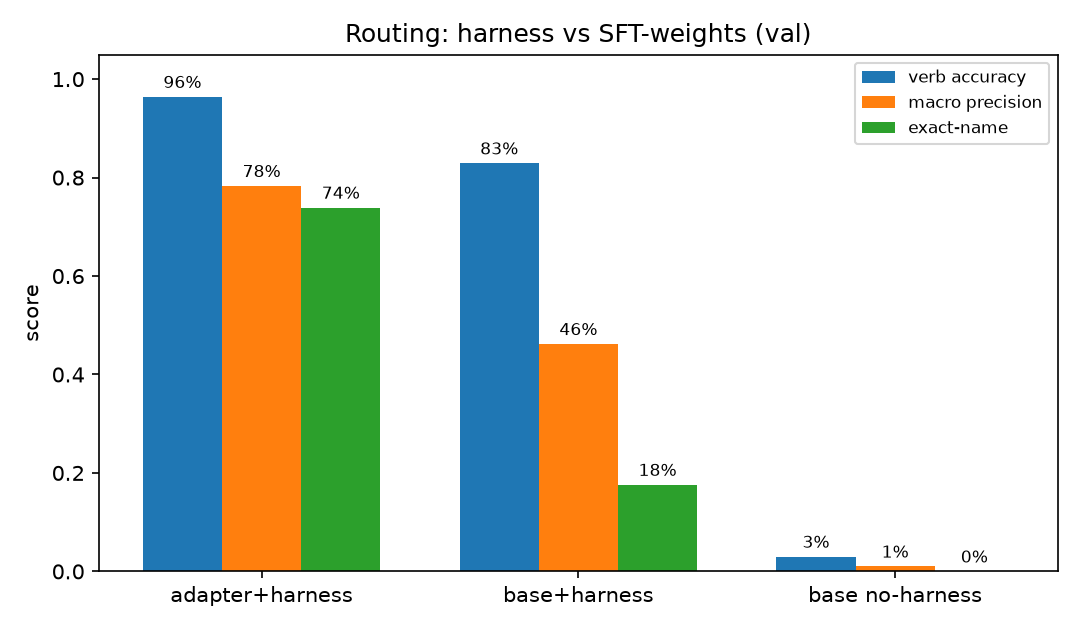
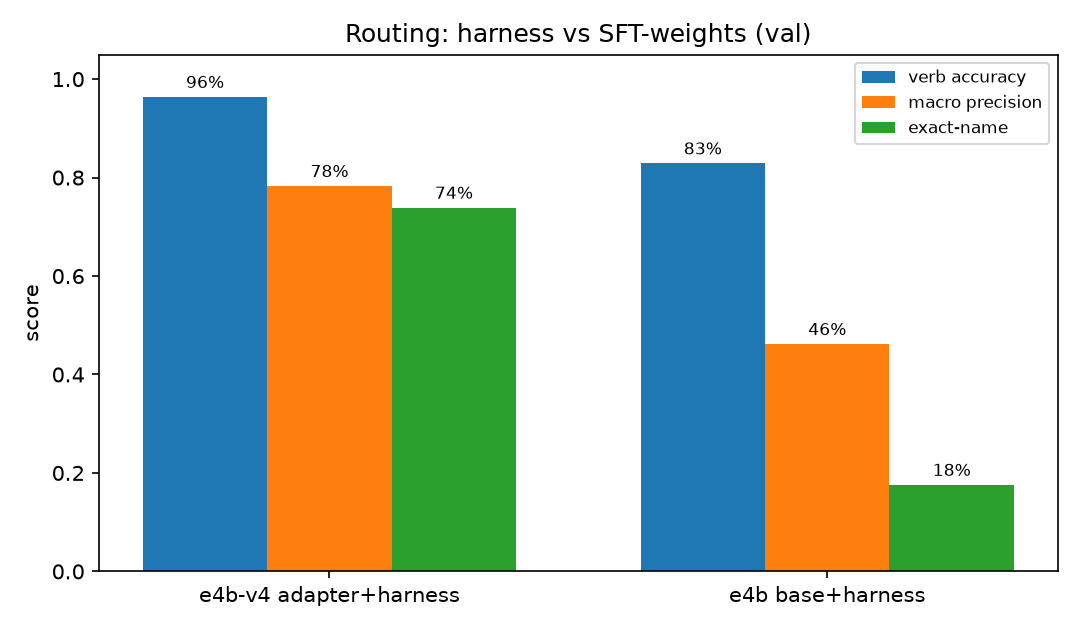
feat(eval): swap base-no-harness for the prior E2B production model in the benchmark
Per request: drop the base-no-harness condition; add the prior E2B-build trained adapter
as the 3rd condition. New conditions, all with the harness contract:
  1. e4b-v4 adapter+harness  (product)
  2. e4b base+harness          (SFT-weights contribution, same base via LoRA toggle)
  3. e2b adapter+harness        (PRIOR production model -- E2B base + its own LoRA; optional)

The E2B condition has a different base, so it can't use the AdapterView toggle -- it loads
separately AFTER the E4B model is freed (sequential -> no single-T4 OOM). Deltas are now
generic vs the product: 1-vs-2 isolates SFT weights, 1-vs-3 is the E2B->E4B model jump.

The e2b adapter is local (runs/gemma4_e2b_unified/best, 5.4MB, attn-only r=8 on E2B) and
gitignored, so the notebook gets it to Kaggle via a Dataset upload OR an HF push (both wired,
skip-if-absent -> the 2-condition E4B benchmark still runs). E2B base auto-downloaded.

Split eval_benchmark (was 209 lines, over the 200 cap) -> eval_benchmark.py (121, runs the
conditions) + bench_report.py (98, renders the report). chart_data drops base-no-harness;
layer-contribution chart regenerated. Training suite: 30 passed; offline 3-condition report
smoke verified.

Claude-Session: https://claude.ai/code/session_01NN8JQHNZsjeNscUsr2THrS

diff --git a/src/llm/llm_training/eval_benchmark.py b/src/llm/llm_training/eval_benchmark.py
@@ -1,14 +1,16 @@
 """Serious routing BENCHMARK for the report — a clean ablation over the validation set:
-  A) adapter + harness  — the product (trained v4 LoRA on the full harness contract)
-  B) base + harness      — SAME harness, LoRA DISABLED (isolates what the SFT WEIGHTS bought)
-  C) base, NO harness    — raw base Gemma, no contract at all (isolates what the HARNESS bought)
-For each we report a confusion matrix + precision/recall/F1 + exact-name + format validity +
-throughput; then the layer deltas (A-B = SFT weights, B-C = harness contract, A-C = full system).
-B and C reuse the SAME loaded model with the LoRA off (AdapterView) — no 2nd load, no OOM, no
-fabricated external baselines. Honest, reproducible from our own artifacts.
+  1) e4b-v4 adapter + harness — the product (trained v4 LoRA on the full harness contract)
+  2) e4b base + harness       — SAME E4B model, LoRA DISABLED (isolates what the SFT WEIGHTS bought)
+  3) e2b adapter + harness     — the PRIOR production model (E2B base + its LoRA), optional
+For each: confusion matrix + precision/recall/F1 + exact-name + format validity + throughput; then
+deltas vs the product (1-vs-2 = SFT weights on the same base; 1-vs-3 = E4B product vs prior E2B
+production). Cond 2 reuses the loaded E4B model with the LoRA off (AdapterView — no 2nd load). Cond
+3 has a DIFFERENT base, so it loads separately AFTER freeing the E4B model (sequential — no OOM).
+No fabricated external baselines; reproducible from our own artifacts.
 
-Built for Kaggle (T4, up to 12h):
-  python -m llm_training.eval_benchmark --adapter <best> --per-slice 25 --time-budget 9000
+Kaggle (T4, up to 12h):
+  python -m llm_training.eval_benchmark --adapter <e4b_best> --per-slice 25 --time-budget 9000 \
+      [--e2b-adapter <e2b_best_dir> --e2b-base <e2b_base_dir>]
 --per-slice 0 = the FULL val set. Saves docs/findings/<date>-routing-benchmark.md + a PNG/condition.
 """
 from __future__ import annotations
@@ -21,9 +23,9 @@ from collections import defaultdict
 from pathlib import Path
 
 sys.path.insert(0, str(Path(__file__).resolve().parents[1]))
-from llm_training import bench_misses  # noqa: E402
+from llm_training import bench_misses, bench_report  # noqa: E402
 from llm_training.eval_confusion import (  # noqa: E402  — reuse the routing primitives
-    CLASSES, VAL, _load_model, _metrics, _png, _sample, _system, first_action, gold_action)
+    CLASSES, VAL, _load_model, _sample, _system, first_action, gold_action)
 
 REPO = Path(__file__).resolve().parents[3]
 _TAG = re.compile(r"</?([a-zA-Z_][\w]*)")
@@ -31,9 +33,8 @@ _CONTRACT = {"think", "/think", "goal", "/goal", "plan", "/plan", "skill", "/ski
 
 
 def _bench(model, rows, *, max_new_tokens, time_budget_s, label, with_harness=True):
-    """One condition. with_harness=True feeds the SAME system contract (fast mode); False feeds
-    ONLY the user turn (raw base, no contract). Tallies the matrix, exact-name, 'soup' (any
-    non-contract tag), per-slice, wall-time. Interrupt-safe via time_budget_s."""
+    """One condition (fast mode). with_harness=False feeds only the user turn. Tallies the matrix,
+    exact-name, 'soup' (any non-contract tag), per-slice, misses, wall-time. Interrupt-safe."""
     cm = {g: {p: 0 for p in CLASSES} for g in CLASSES}
     nh = nt = soup = done = 0
     sc, st = defaultdict(int), defaultdict(int)
@@ -69,95 +70,6 @@ def _bench(model, rows, *, max_new_tokens, time_budget_s, label, with_harness=Tr
             "sc": sc, "st": st, "misses": misses}
 
 
-def _summary(b: dict) -> dict:
-    cm = b["cm"]
-    tot = sum(cm[g][p] for g in CLASSES for p in CLASSES) or 1
-    met = _metrics(cm)
-    wsup = sum(met[c]["support"] for c in CLASSES) or 1
-    return {"met": met, "acc": sum(cm[c][c] for c in CLASSES) / tot,
-            "macro": sum(met[c]["precision"] for c in CLASSES) / len(CLASSES),
-            "wp": sum(met[c]["precision"] * met[c]["support"] for c in CLASSES) / wsup,
-            "name": b["nh"] / b["nt"] if b["nt"] else 0.0,
-            "fmt": 1 - b["soup"] / max(b["n"], 1), "spr": b["sec"] / max(b["n"], 1)}
-
-
-def _matrix_md(cm: dict) -> str:
-    rows = ["| gold \\ pred | " + " | ".join(CLASSES) + " |", "|---|" + "---|" * len(CLASSES)]
-    for g in CLASSES:
-        rows.append(f"| {g} | " + " | ".join(str(cm[g][p]) for p in CLASSES) + " |")
-    return "\n".join(rows)
-
-
-def _prf_md(met: dict) -> str:
-    rows = ["| class | precision | recall | F1 | support |", "|---|---|---|---|---|"]
-    for c in CLASSES:
-        m = met[c]
-        rows.append(f"| {c} | {m['precision']:.2f} | {m['recall']:.2f} | {m['f1']:.2f} | {m['support']} |")
-    return "\n".join(rows)
-
-
-def _headline(summ: list) -> str:
-    labels = [lab for lab, _ in summ]
-    L = ["| metric | " + " | ".join(labels) + " |", "|---|" + "---|" * len(labels)]
-
-    def row(name, key, pct=True):
-        f = (lambda x: f"{x:.1%}") if pct else (lambda x: f"{x:.2f}")
-        return f"| {name} | " + " | ".join(f(s[key]) for _, s in summ) + " |"
-    L += [row("verb accuracy", "acc"), row("macro precision", "macro"),
-          row("weighted precision", "wp"), row("exact-name accuracy", "name"),
-          row("format validity (no foreign tags)", "fmt"), row("throughput (s/row)", "spr", False)]
-    return "\n".join(L)
-
-
-def _delta(a: dict, b: dict) -> str:
-    return (f"verb acc {a['acc']-b['acc']:+.1%}, format {a['fmt']-b['fmt']:+.1%}, "
-            f"macro-prec {a['macro']-b['macro']:+.1%}, exact-name {a['name']-b['name']:+.1%}")
-
-
-def _write_report(conds: list, date_str: str, suite: str = "val") -> Path:
-    """conds = [(label, bench_result), ...] in order: adapter+harness, base+harness, base no-harness.
-    `suite` ('val' in-distribution held-out, or 'stress' held-out wild/out-of-domain) names the
-    row source — it tags the report title + output filename so the two tiers don't overwrite."""
-    summ = [(lab, _summary(b)) for lab, b in conds]
-    s = {lab: sm for lab, sm in summ}
-    a, bh, nh = "adapter+harness", "base+harness", "base no-harness"
-    src = ("held-out STRESS rows (messy/slang/typo phrasing + UNSEEN out-of-domain catalogs + "
-           "decline cases — hand-written, in NO training row)" if suite == "stress"
-           else "stratified val rows (held out from training; in-distribution phrasing)")
-    L = ["Parent: docs/reference/sft-corpus-generation.md", "",
-         f"# Routing benchmark ({suite}) — Gemma 4 E4B chess-coach (v4 adapter)", "",
-         f"n = {conds[0][1]['n']} {src} · fast mode (routing is mode-independent) · "
-         "B/C reuse the same model with the LoRA disabled (B keeps the harness contract; C drops "
-         "it entirely — raw base Gemma). This isolates the two layers separately.", "",
-         "## Headline — three conditions", _headline(summ), "",
-         "## What each layer contributes",
-         f"- **SFT weights** (adapter+harness vs base+harness): {_delta(s[a], s[bh])}",
-         f"- **Harness contract** (base+harness vs base no-harness): {_delta(s[bh], s[nh])}",
-         f"- **Full system** (adapter+harness vs base no-harness): {_delta(s[a], s[nh])}", ""]
-    for lab, b in conds:
-        sm = s[lab]
-        L += [f"## Confusion matrix — {lab} (rows = gold, cols = pred)", _matrix_md(b["cm"]), "",
-              f"### Per-class precision / recall / F1 — {lab}", _prf_md(sm["met"]), ""]
-    pa = conds[0][1]
-    L += ["## Per-slice routing accuracy (adapter+harness)"]
-    for sl in sorted(pa["st"]):
-        L.append(f"- {sl}: {pa['sc'][sl]}/{pa['st'][sl]} = {pa['sc'][sl] / pa['st'][sl]:.0%}")
-    L += ["", "## Per-slice MISS analysis (adapter+harness) — what the misses actually emitted",
-          "wrong-name = right verb, wrong target (over-specialization); wrong-verb = wrong KIND "
-          "of action. This is the ground truth a bare accuracy number hides.",
-          bench_misses.breakdown_md(pa["misses"])]
-    stem = f"{date_str}-routing-benchmark" + ("" if suite == "val" else f"-{suite}")
-    out = REPO / "docs" / "findings" / f"{stem}.md"
-    out.parent.mkdir(parents=True, exist_ok=True)
-    out.write_text("\n".join(L) + "\n", encoding="utf-8")
-    bench_misses.write_jsonl(pa["misses"], out.with_name(out.stem + "-misses.jsonl"))
-    for lab, b in conds:
-        _png(b["cm"], out.with_name(out.stem + "-" + lab.replace(" ", "_").replace("+", "-") + ".png"))
-    print("\n".join(L[2:]), flush=True)
-    print(f"\nwrote {out}", flush=True)
-    return out
-
-
 def main() -> None:
     ap = argparse.ArgumentParser()
     ap.add_argument("--adapter", default=None, help="adapter dir (loads HFModel)")
@@ -167,6 +79,10 @@ def main() -> None:
     ap.add_argument("--time-budget", type=float, default=0, help="seconds PER condition (0 = none)")
     ap.add_argument("--suite", choices=["val", "stress"], default="val",
                     help="val = in-distribution held-out; stress = held-out wild/out-of-domain")
+    ap.add_argument("--e2b-adapter", default=None, help="local dir of the PRIOR E2B production LoRA "
+                    "adapter; adds a 3rd condition (e2b adapter+harness). Needs --e2b-base.")
+    ap.add_argument("--e2b-base", default=None, help="local dir of the E2B base the e2b adapter was "
+                    "trained on (e.g. a downloaded unsloth/gemma-4-E2B-it)")
     args = ap.parse_args()
 
     from datetime import date
@@ -178,17 +94,27 @@ def main() -> None:
     else:
         rows = _sample(list(read_rows(VAL)), args.per_slice or None)
     model = _load_model(args)
-    base = AdapterView(model, False)        # same weights, LoRA OFF
+    base = AdapterView(model, False)        # same E4B weights, LoRA OFF (isolates SFT weights)
     tb, mnt = args.time_budget or None, args.max_new_tokens
-    print(f"benchmark [{args.suite}]: {len(rows)} rows x 3 conditions "
-          "(adapter+harness, base+harness, base no-harness)", flush=True)
+    n3 = " + e2b adapter+harness" if args.e2b_adapter else ""
+    print(f"benchmark [{args.suite}]: {len(rows)} rows · e4b-v4 adapter+harness, e4b base+harness{n3}",
+          flush=True)
     conds = [
-        ("adapter+harness", _bench(model, rows, max_new_tokens=mnt, time_budget_s=tb, label="adapter+harness")),
-        ("base+harness", _bench(base, rows, max_new_tokens=mnt, time_budget_s=tb, label="base+harness")),
-        ("base no-harness", _bench(base, rows, max_new_tokens=mnt, time_budget_s=tb,
-                                   label="base no-harness", with_harness=False)),
+        ("e4b-v4 adapter+harness", _bench(model, rows, max_new_tokens=mnt, time_budget_s=tb, label="e4b-v4 adapter+harness")),
+        ("e4b base+harness", _bench(base, rows, max_new_tokens=mnt, time_budget_s=tb, label="e4b base+harness")),
     ]
-    _write_report(conds, f"{date.today():%Y-%m-%d}", args.suite)
+    if args.e2b_adapter:                    # prior production model: own E2B base -> SEPARATE load
+        del base, model                     # free the E4B model first (sequential -> no T4 OOM)
+        import gc; gc.collect()
+        try:
+            import torch; torch.cuda.empty_cache()
+        except Exception:
+            pass
+        from backend.model_hf import HFModel
+        e2b = HFModel(base=args.e2b_base, adapter=args.e2b_adapter, temperature=0.0)
+        conds.append(("e2b adapter+harness",
+                      _bench(e2b, rows, max_new_tokens=mnt, time_budget_s=tb, label="e2b adapter+harness")))
+    bench_report.write_report(conds, f"{date.today():%Y-%m-%d}", args.suite)
 
 
 if __name__ == "__main__":

diff --git a/src/llm/llm_training/bench_report.py b/src/llm/llm_training/bench_report.py
@@ -1,0 +1,98 @@
+"""Markdown rendering for the routing benchmark — the report-writing half of eval_benchmark, split
+out to keep each file under the size cap. Pure functions over the per-condition bench dicts that
+_bench produces: summary metrics, the confusion-matrix / precision tables, the headline, the deltas,
+and the full report file (+ per-condition PNGs + the miss-log JSONL)."""
+from __future__ import annotations
+
+from pathlib import Path
+
+from llm_training import bench_misses
+from llm_training.eval_confusion import CLASSES, _metrics, _png
+
+REPO = Path(__file__).resolve().parents[3]
+
+
+def summary(b: dict) -> dict:
+    cm = b["cm"]
+    tot = sum(cm[g][p] for g in CLASSES for p in CLASSES) or 1
+    met = _metrics(cm)
+    wsup = sum(met[c]["support"] for c in CLASSES) or 1
+    return {"met": met, "acc": sum(cm[c][c] for c in CLASSES) / tot,
+            "macro": sum(met[c]["precision"] for c in CLASSES) / len(CLASSES),
+            "wp": sum(met[c]["precision"] * met[c]["support"] for c in CLASSES) / wsup,
+            "name": b["nh"] / b["nt"] if b["nt"] else 0.0,
+            "fmt": 1 - b["soup"] / max(b["n"], 1), "spr": b["sec"] / max(b["n"], 1)}
+
+
+def _matrix_md(cm: dict) -> str:
+    rows = ["| gold \\ pred | " + " | ".join(CLASSES) + " |", "|---|" + "---|" * len(CLASSES)]
+    for g in CLASSES:
+        rows.append(f"| {g} | " + " | ".join(str(cm[g][p]) for p in CLASSES) + " |")
+    return "\n".join(rows)
+
+
+def _prf_md(met: dict) -> str:
+    rows = ["| class | precision | recall | F1 | support |", "|---|---|---|---|---|"]
+    for c in CLASSES:
+        m = met[c]
+        rows.append(f"| {c} | {m['precision']:.2f} | {m['recall']:.2f} | {m['f1']:.2f} | {m['support']} |")
+    return "\n".join(rows)
+
+
+def _headline(summ: list) -> str:
+    labels = [lab for lab, _ in summ]
+    L = ["| metric | " + " | ".join(labels) + " |", "|---|" + "---|" * len(labels)]
+    def row(name, key, pct=True):
+        f = (lambda x: f"{x:.1%}") if pct else (lambda x: f"{x:.2f}")
+        return f"| {name} | " + " | ".join(f(s[key]) for _, s in summ) + " |"
+    L += [row("verb accuracy", "acc"), row("macro precision", "macro"),
+          row("weighted precision", "wp"), row("exact-name accuracy", "name"),
+          row("format validity (no foreign tags)", "fmt"), row("throughput (s/row)", "spr", False)]
+    return "\n".join(L)
+
+
+def _delta(a: dict, b: dict) -> str:
+    return (f"verb acc {a['acc']-b['acc']:+.1%}, format {a['fmt']-b['fmt']:+.1%}, "
+            f"macro-prec {a['macro']-b['macro']:+.1%}, exact-name {a['name']-b['name']:+.1%}")
+
+
+def write_report(conds: list, date_str: str, suite: str = "val") -> Path:
+    """conds = [(label, bench_result), ...]; the FIRST is the product (E4B v4 adapter+harness) the
+    others are measured against. `suite` ('val' or 'stress') tags the title + filename."""
+    summ = [(lab, summary(b)) for lab, b in conds]
+    s = {lab: sm for lab, sm in summ}
+    prod = conds[0][0]
+    src = ("held-out STRESS rows (messy/slang/typo phrasing + UNSEEN out-of-domain catalogs + "
+           "decline cases — hand-written, in NO training row)" if suite == "stress"
+           else "stratified val rows (held out from training; in-distribution phrasing)")
+    L = ["Parent: docs/reference/sft-corpus-generation.md", "",
+         f"# Routing benchmark ({suite}) — Gemma 4 chess-coach", "",
+         f"n = {conds[0][1]['n']} {src} · fast mode (routing is mode-independent) · the E4B "
+         "base+harness condition reuses the loaded E4B model with the LoRA disabled; the E2B "
+         "condition (if present) is the prior-production adapter on its OWN E2B base.", "",
+         f"## Headline — {len(conds)} conditions (product = {prod})", _headline(summ), "",
+         "## What each delta isolates (vs the product)"]
+    for lab, _ in conds[1:]:
+        L.append(f"- **{prod} vs {lab}**: {_delta(s[prod], s[lab])}")
+    L.append("")
+    for lab, b in conds:
+        L += [f"## Confusion matrix — {lab} (rows = gold, cols = pred)", _matrix_md(b["cm"]), "",
+              f"### Per-class precision / recall / F1 — {lab}", _prf_md(s[lab]["met"]), ""]
+    pa = conds[0][1]
+    L += [f"## Per-slice routing accuracy ({prod})"]
+    for sl in sorted(pa["st"]):
+        L.append(f"- {sl}: {pa['sc'][sl]}/{pa['st'][sl]} = {pa['sc'][sl] / pa['st'][sl]:.0%}")
+    L += ["", f"## Per-slice MISS analysis ({prod}) — what the misses actually emitted",
+          "wrong-name = right verb, wrong target (over-specialization); wrong-verb = wrong KIND "
+          "of action. This is the ground truth a bare accuracy number hides.",
+          bench_misses.breakdown_md(pa["misses"])]
+    stem = f"{date_str}-routing-benchmark" + ("" if suite == "val" else f"-{suite}")
+    out = REPO / "docs" / "findings" / f"{stem}.md"
+    out.parent.mkdir(parents=True, exist_ok=True)
+    out.write_text("\n".join(L) + "\n", encoding="utf-8")
+    bench_misses.write_jsonl(pa["misses"], out.with_name(out.stem + "-misses.jsonl"))
+    for lab, b in conds:
+        _png(b["cm"], out.with_name(out.stem + "-" + lab.replace(" ", "_").replace("+", "-") + ".png"))
+    print("\n".join(L[2:]), flush=True)
+    print(f"\nwrote {out}", flush=True)
+    return out

diff --git a/src/llm/llm_training/report/chart_data.py b/src/llm/llm_training/report/chart_data.py
@@ -18,14 +18,13 @@ from pathlib import Path
 
 REPO = Path(__file__).resolve().parents[4]
 
-# --- 3-condition ablation (val + stress), from the committed benchmark report ---
+# --- routing ablation (val), from the committed benchmark report. The e2b condition (prior
+# production model) is filled by the next measured benchmark run; until then the chart shows the two
+# E4B conditions (SFT-weights contribution). base-no-harness was dropped from the design. ---
 COND_VAL = {
-    "adapter+harness": {"verb": 0.964, "macro": 0.783, "exact": 0.739},
-    "base+harness": {"verb": 0.829, "macro": 0.462, "exact": 0.176},
-    "base no-harness": {"verb": 0.030, "macro": 0.010, "exact": 0.000},
-}
-COND_STRESS = {  # verb accuracy only (n=20; base+harness 0.95 is a 1-row artifact, noted in report)
-    "adapter+harness": 0.90, "base+harness": 0.95, "base no-harness": 0.25,
+    "e4b-v4 adapter+harness": {"verb": 0.964, "macro": 0.783, "exact": 0.739},
+    "e4b base+harness": {"verb": 0.829, "macro": 0.462, "exact": 0.176},
+    # "e2b adapter+harness": filled after the measured rerun (eval_benchmark --e2b-adapter ...)
 }
 
 # --- E4B training history: each retrain fixed a specific diagnosed failure (git log) ---

diff --git a/src/llm/llm_training/report/version_eval.py b/src/llm/llm_training/report/version_eval.py
@@ -21,7 +21,8 @@ from pathlib import Path
 sys.path.insert(0, str(Path(__file__).resolve().parents[2]))
 from llm_dataset.v1.jsonl_io import read_rows  # noqa: E402
 from llm_training import bench_misses  # noqa: E402
-from llm_training.eval_benchmark import _bench, _summary  # noqa: E402
+from llm_training.bench_report import summary as _summary  # noqa: E402
+from llm_training.eval_benchmark import _bench  # noqa: E402
 from llm_training.eval_confusion import VAL, _sample  # noqa: E402
 from llm_training.report import chart_data as D  # noqa: E402
 from llm_training.report import charts  # noqa: E402

diff --git a/docs/findings/report_assets/README.md b/docs/findings/report_assets/README.md
@@ -15,3 +15,24 @@ Generated PNGs for the report. Every number traces to a real artifact (see
 `kaggle_benchmark.ipynb`). If the v2/v3 adapter repo ids differ from
 `chart_data.VERSIONS`, edit that file's `repo`/`sub` and re-run — a missing repo is skipped,
 not fatal.
+
+## The prior E2B production model (3rd benchmark condition)
+
+The benchmark's optional `e2b adapter+harness` condition is the **prior production model**: an
+attn-only r=8 LoRA on the **E2B** base, trained in the E2B production era. The adapter lives
+**locally** at `runs/gemma4_e2b_unified/best/` (5.4 MB) and is **gitignored** (`*.safetensors`),
+so it is NOT in the Kaggle clone. Get it onto Kaggle one of two ways, then set the matching var
+in `kaggle_benchmark.ipynb` Cell 1:
+
+- **(a) Kaggle Dataset** — zip/upload `runs/gemma4_e2b_unified/best/` via *Add Input*, set
+  `E2B_ADAPTER_DIR='/kaggle/input/<name>/best'`.
+- **(b) HF push** (one-off, ~5 MB), then set `E2B_ADAPTER_REPO='RyanDev1st/gemma4-chesscoach-e2b'`:
+
+  ```bash
+  python -c "from huggingface_hub import HfApi, login; login('<HF_TOKEN>'); \
+    HfApi().upload_folder(folder_path='runs/gemma4_e2b_unified/best', \
+    repo_id='RyanDev1st/gemma4-chesscoach-e2b', path_in_repo='best', repo_type='model')"
+  ```
+
+Leave both blank to run the 2-condition E4B benchmark only. The E2B base
+(`unsloth/gemma-4-E2B-it`) is downloaded by the notebook automatically when the condition is on.

diff --git a/CLAUDE.md b/CLAUDE.md
@@ -29,7 +29,7 @@ The product is a **general agentic HARNESS operator** = an LLM that **chooses am
 | `CLAUDE.md` | Team agent instructions (this file) |
 | `src/llm/llm_dataset/v1/` | **ACTIVE** SFT generator. Spec = `contracts.py`; `profiles.py` writes the v1_2 corpus. Source of truth for harness behavior |
 | `data/sft/v1_2_train.jsonl`, `data/sft/v1_2_val.jsonl`, `data/sft/v1_2/` | **ACTIVE** SFT corpus (split + accepted/rejected). The ONLY corpus trainers read |
-| `src/llm/llm_training/` | QLoRA trainer (`run_train.py`, `train_cuda.py`), loader, `eval_routing.py`, `system_prompt.py`. Eval/benchmark: `eval_confusion.py` (routing confusion matrix), `eval_benchmark.py` (3-condition ablation: adapter+harness vs base+harness vs base-no-harness), `bench_suites.py` (held-out wild/out-of-domain STRESS rows, catalog sourced from the real `life-skills` plugin), `bench_transcript.py` (captures a real end-to-end agent conversation on unseen domains for the report), `bench_misses.py` (per-row routing MISS log → per-slice failure-mode table, so "slice G 0/25" is explained not guessed). `report/` = report-asset generation: `charts.py` (GPU-free matplotlib: layer-contribution bars, corpus composition, per-slice bars, training timeline), `chart_data.py` (numbers traced to real artifacts + v2/v3/v4 metadata), `version_eval.py` (Kaggle multi-version measured routing trend → assets in `docs/findings/report_assets/`); serve notebook `colab_serve_e4b.ipynb`, benchmark notebook `kaggle_benchmark.ipynb` |
+| `src/llm/llm_training/` | QLoRA trainer (`run_train.py`, `train_cuda.py`), loader, `eval_routing.py`, `system_prompt.py`. Eval/benchmark: `eval_confusion.py` (routing confusion matrix), `eval_benchmark.py` (routing ablation: e4b-v4 adapter+harness vs e4b base+harness vs — optional — e2b adapter+harness, the prior E2B production model on its own base; `--e2b-adapter/--e2b-base`), `bench_report.py` (the markdown/PNG rendering half of the benchmark, split out for the size cap), `bench_suites.py` (held-out wild/out-of-domain STRESS rows, catalog sourced from the real `life-skills` plugin), `bench_transcript.py` (captures a real end-to-end agent conversation on unseen domains for the report), `bench_misses.py` (per-row routing MISS log → per-slice failure-mode table, so "slice G 0/25" is explained not guessed). `report/` = report-asset generation: `charts.py` (GPU-free matplotlib: layer-contribution bars, corpus composition, per-slice bars, training timeline), `chart_data.py` (numbers traced to real artifacts + v2/v3/v4 metadata), `version_eval.py` (Kaggle multi-version measured routing trend → assets in `docs/findings/report_assets/`); serve notebook `colab_serve_e4b.ipynb`, benchmark notebook `kaggle_benchmark.ipynb` |
 | `src/llm/backend/` | Environment the agent calls: tool executor + Stockfish engine + HTTP server + `sandbox.py` (the domain-neutral `python` verification tool — isolated subprocess, used to ground/verify a claim by running a script; Stage-0 keystone). Live skills catalog = `src/llm/skills/` (loaded by `skills.load_skills`). Plugin bundles = `backend/plugins/` (each contributes tools+skills+hooks; registry aggregates enabled ones into the served manifest — tests cross-bundle routing). `life_skills.py` = a real out-of-domain bundle (cooking/music/wellness/tax — real bodies + deterministic executors) installed-but-off by default; the benchmark enables it to prove the harness generalizes to unseen domains. Dev runtime: `model_server.py` (persistent weights service) + `model_remote.py` + `dev_serve.py` (weightless app auto-restart via `CHESS_MODEL_SERVER`). Memory system = `backend/memory/` (persistent per-user profile auto-captured each turn behind a write-discipline gate; injected into the system prompt every turn — runtime profiles in `data/memory/`, gitignored) |
 | `src/llm/skills_demo/` | 40 chess SKILL.md fixtures for routing tests + presentation demo. `_specs.py` (data) + `_generate.py` (renderer); NOT auto-loaded by the backend (pass as `load_skills` root) |
 | `src/llm/gemma_chat_site/` | Web app (board + chat UI) |